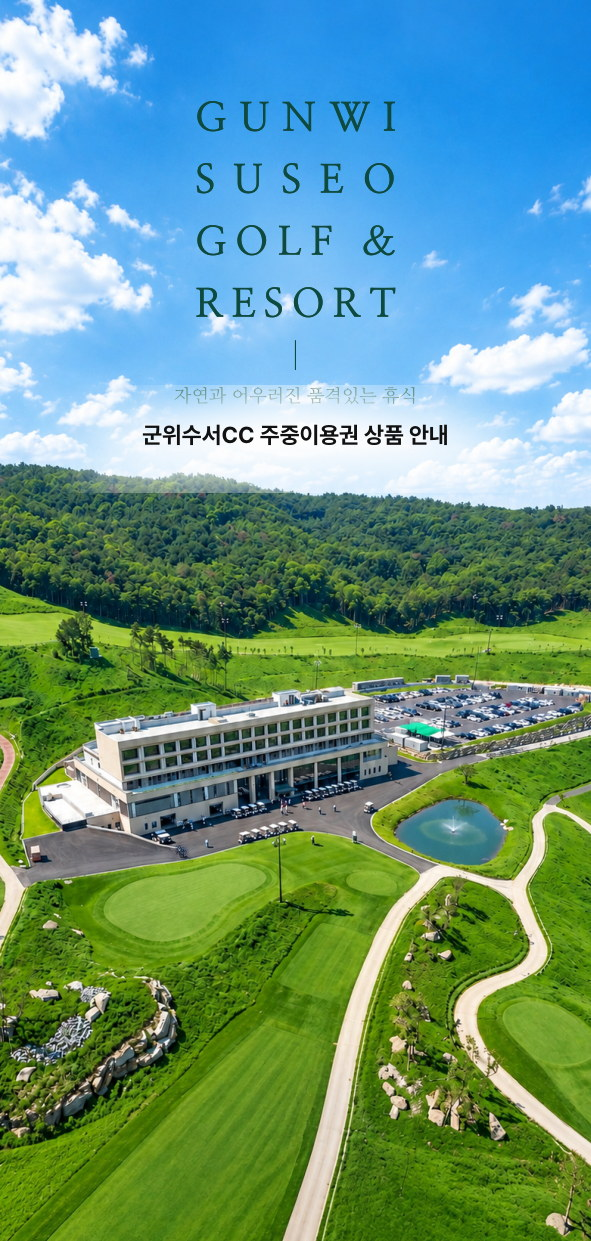
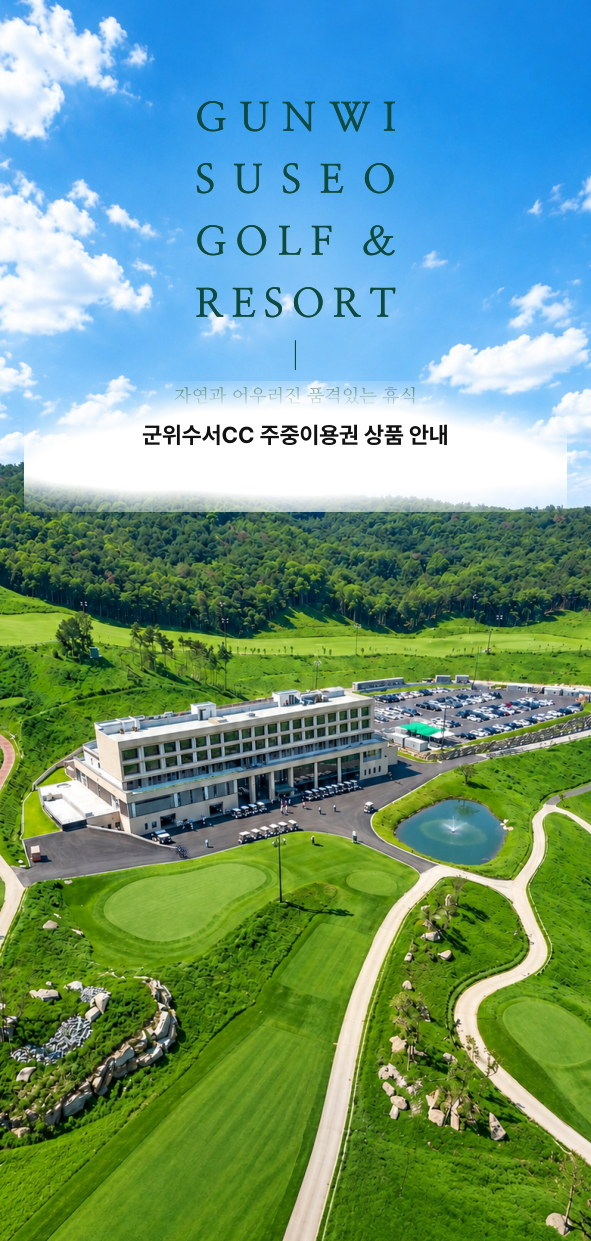
v7: 구름 배경을 뚜렷하게

Changed region(s): [[0.0305, 0.3062, 0.9746, 0.4287]]

diff --git a/leaflet/index.html b/leaflet/index.html
@@ -90,7 +90,7 @@
 
 <script>
 (function () {
-  var BUILD = '202609071606';   // 이미지 캐시 무효화용. 빌드마다 갱신
+  var BUILD = '202609071607';   // 이미지 캐시 무효화용. 빌드마다 갱신
   var VERS = [
     ['v6_ryu', 'v6 류성현'],
     ['v6_lee', 'v6 이승재'],
